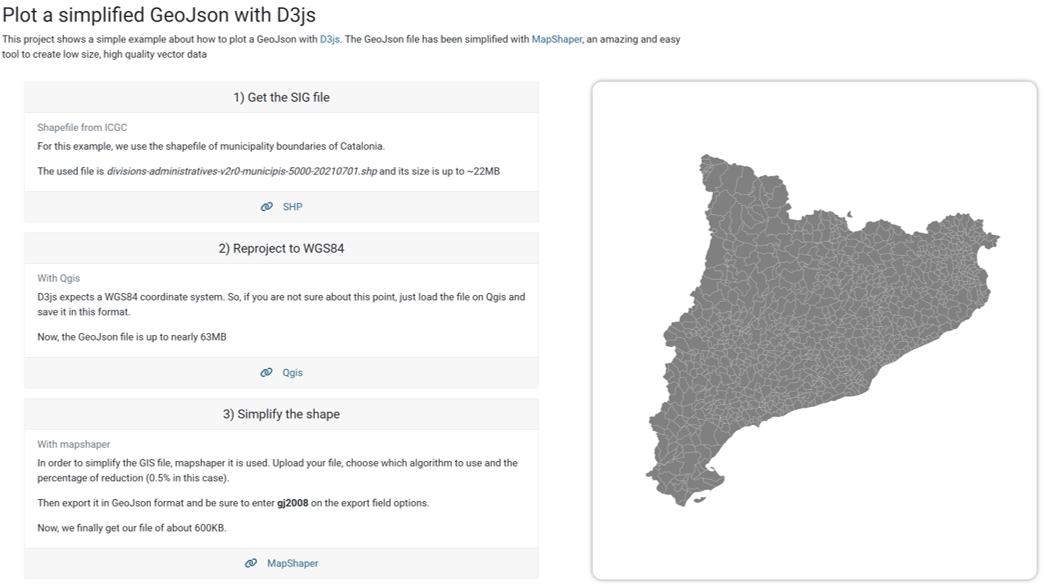
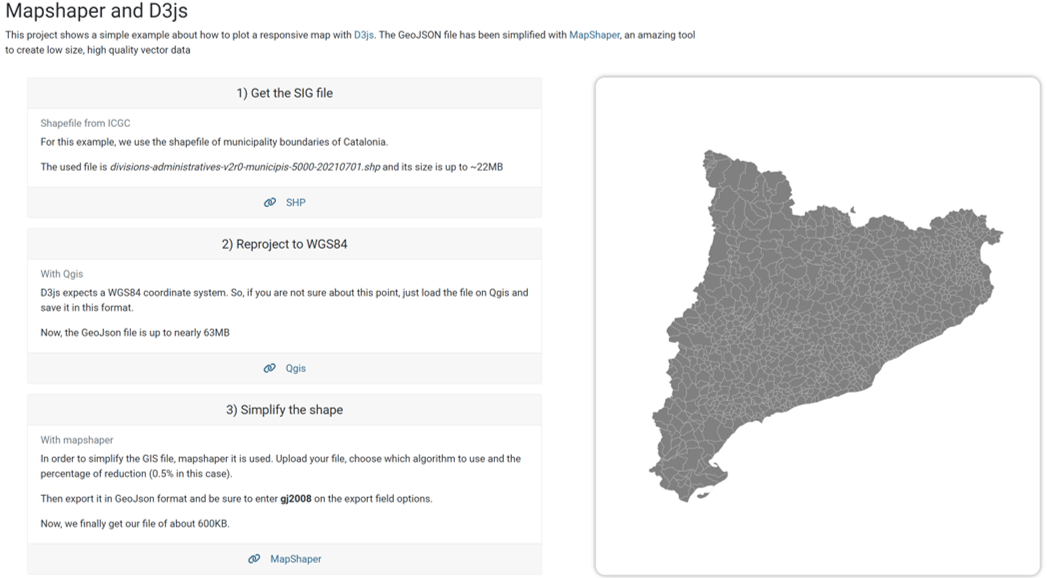
Titles

diff --git a/index.html b/index.html
@@ -16,8 +16,8 @@
 <body>
 
     <div class="container text">
-        <h2>Plot a simplified GeoJson with D3js</h2>
-        <p>This project shows a simple example about how to plot a GeoJson with <a href="https://d3js.org/" target="_blank">D3js</a>. The GeoJson file has been simplified with <a href="https://mapshaper.org/" target="_blank">MapShaper</a>, an amazing and easy tool to create low size, high quality vector data</p>
+        <h2>Mapshaper and D3js</h2>
+        <p>This project shows a simple example about how to plot a responsive map with <a href="https://d3js.org/" target="_blank">D3js</a>. The GeoJSON file has been simplified with <a href="https://mapshaper.org/" target="_blank">MapShaper</a>, an amazing tool to create low size, high quality vector data</p>
     </div>
 
     <div class="container-fluid cards">
